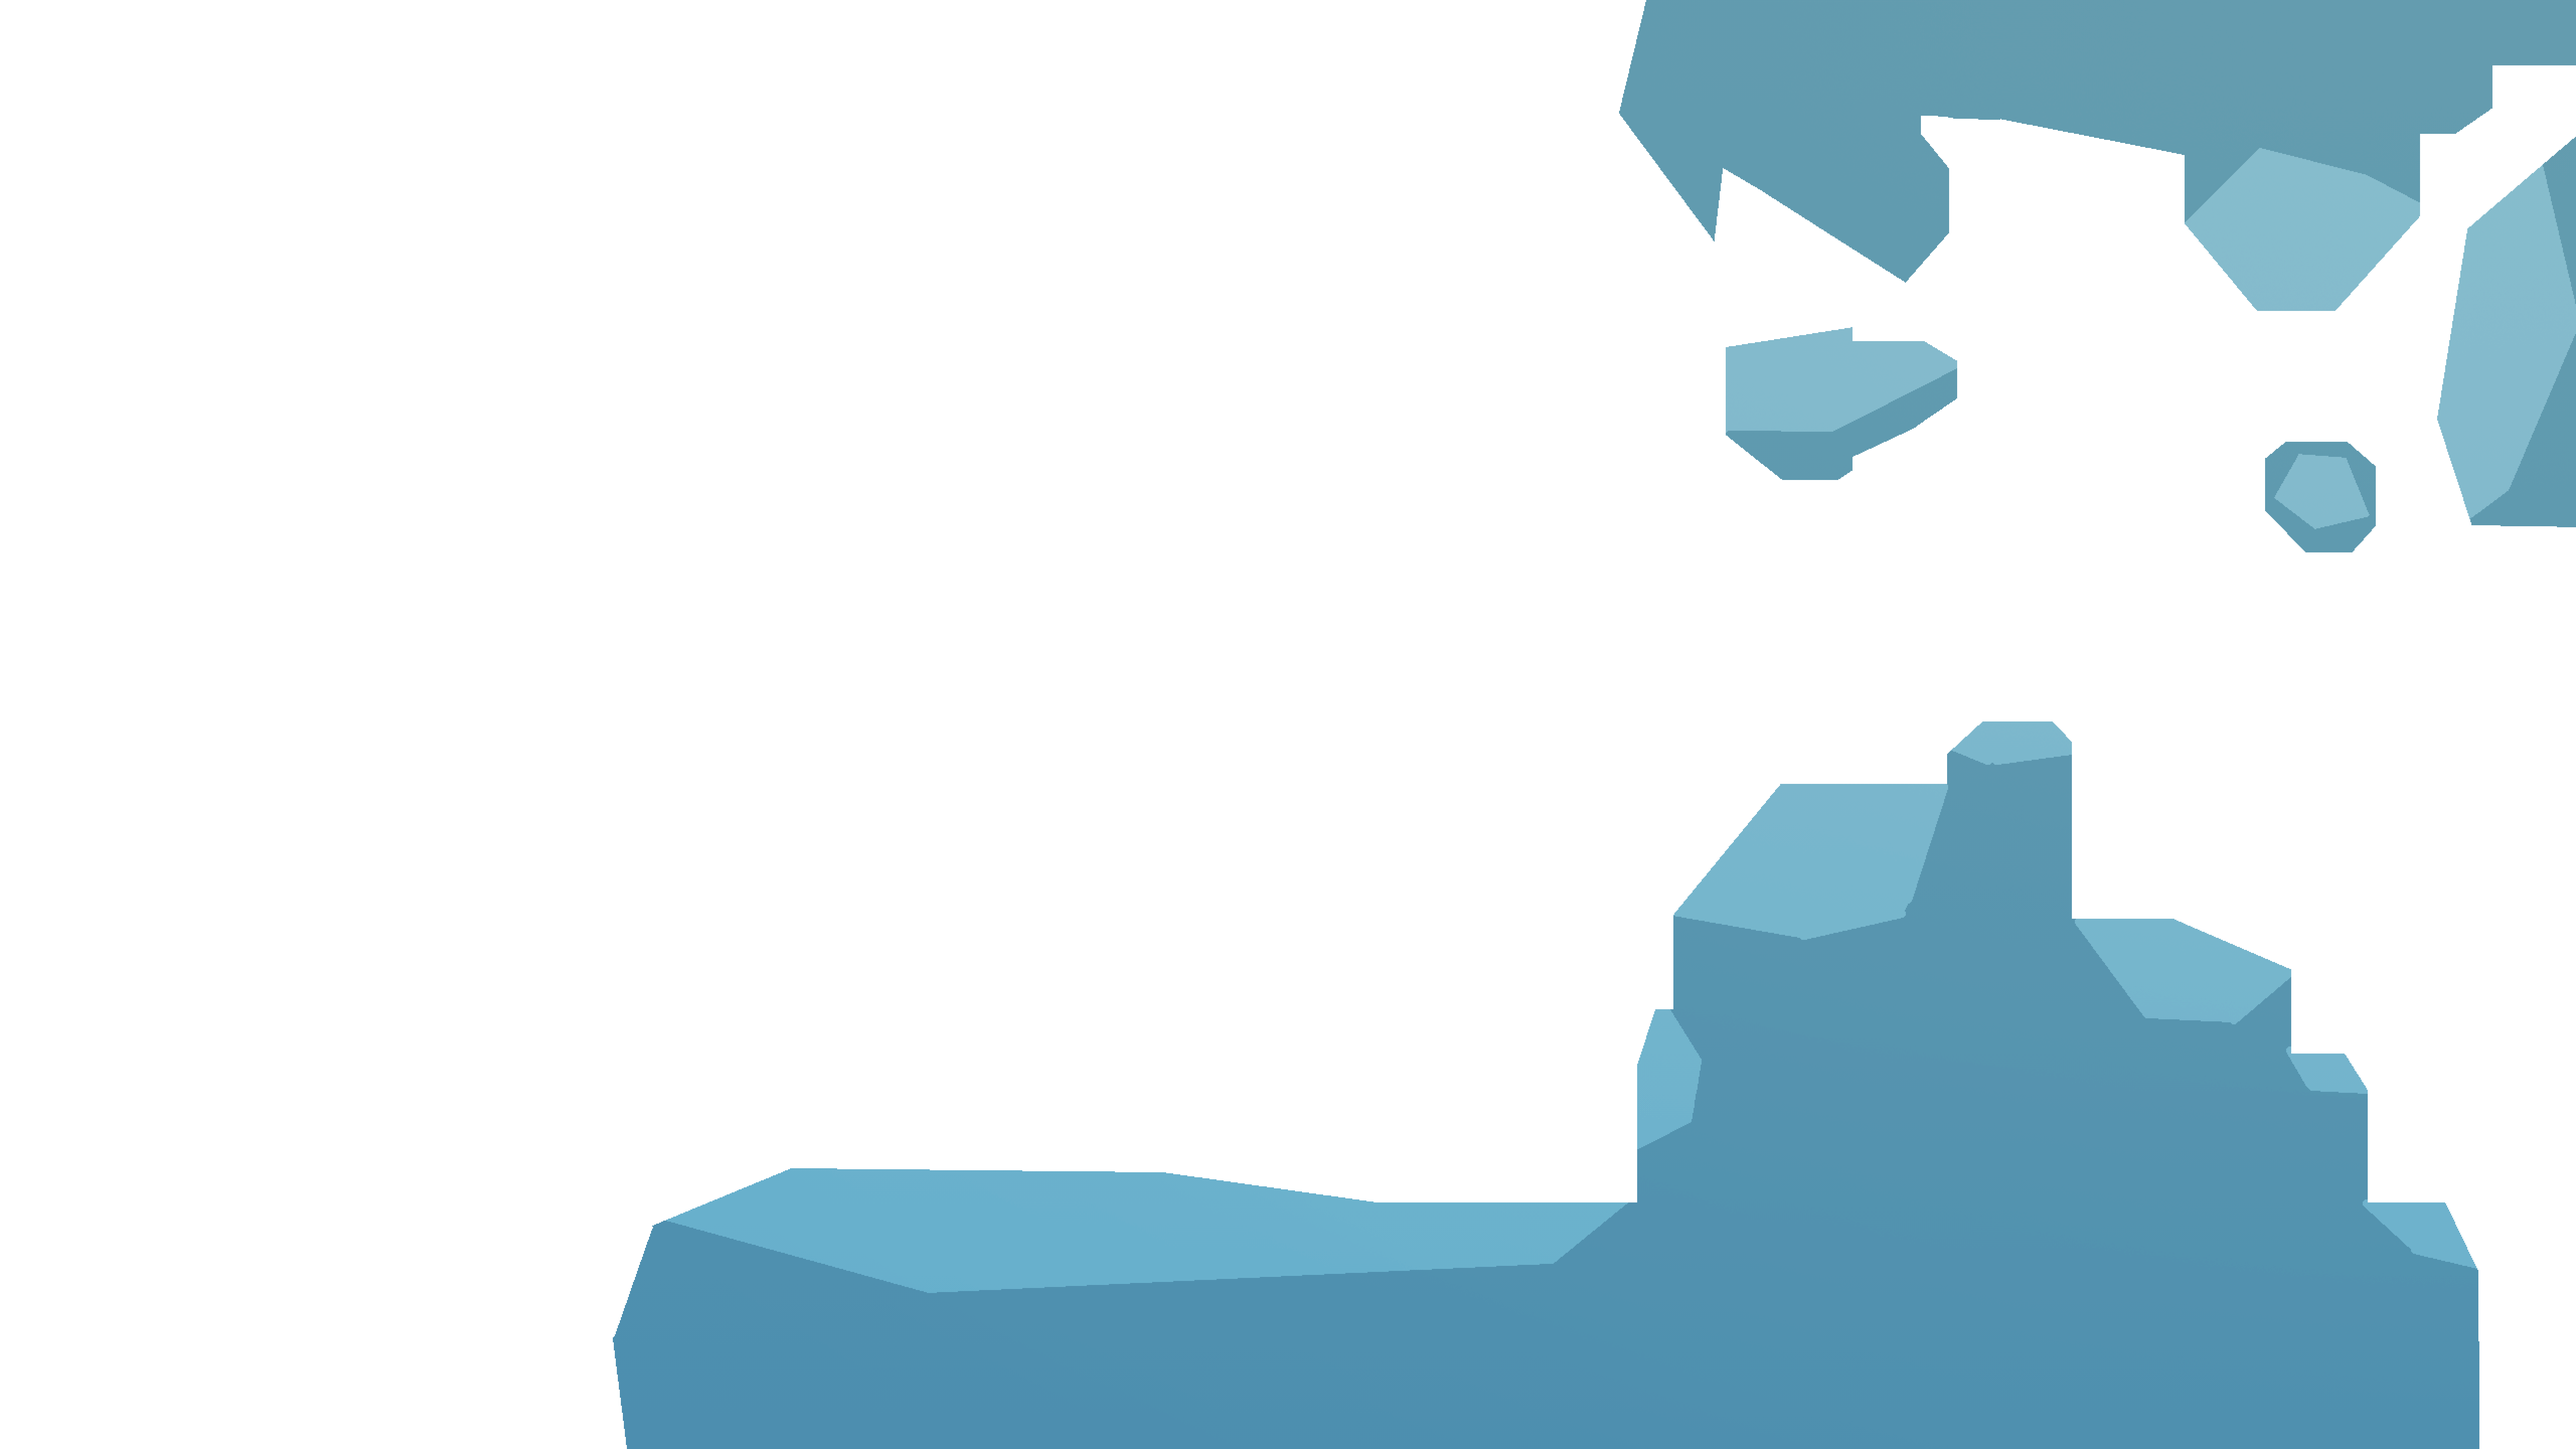
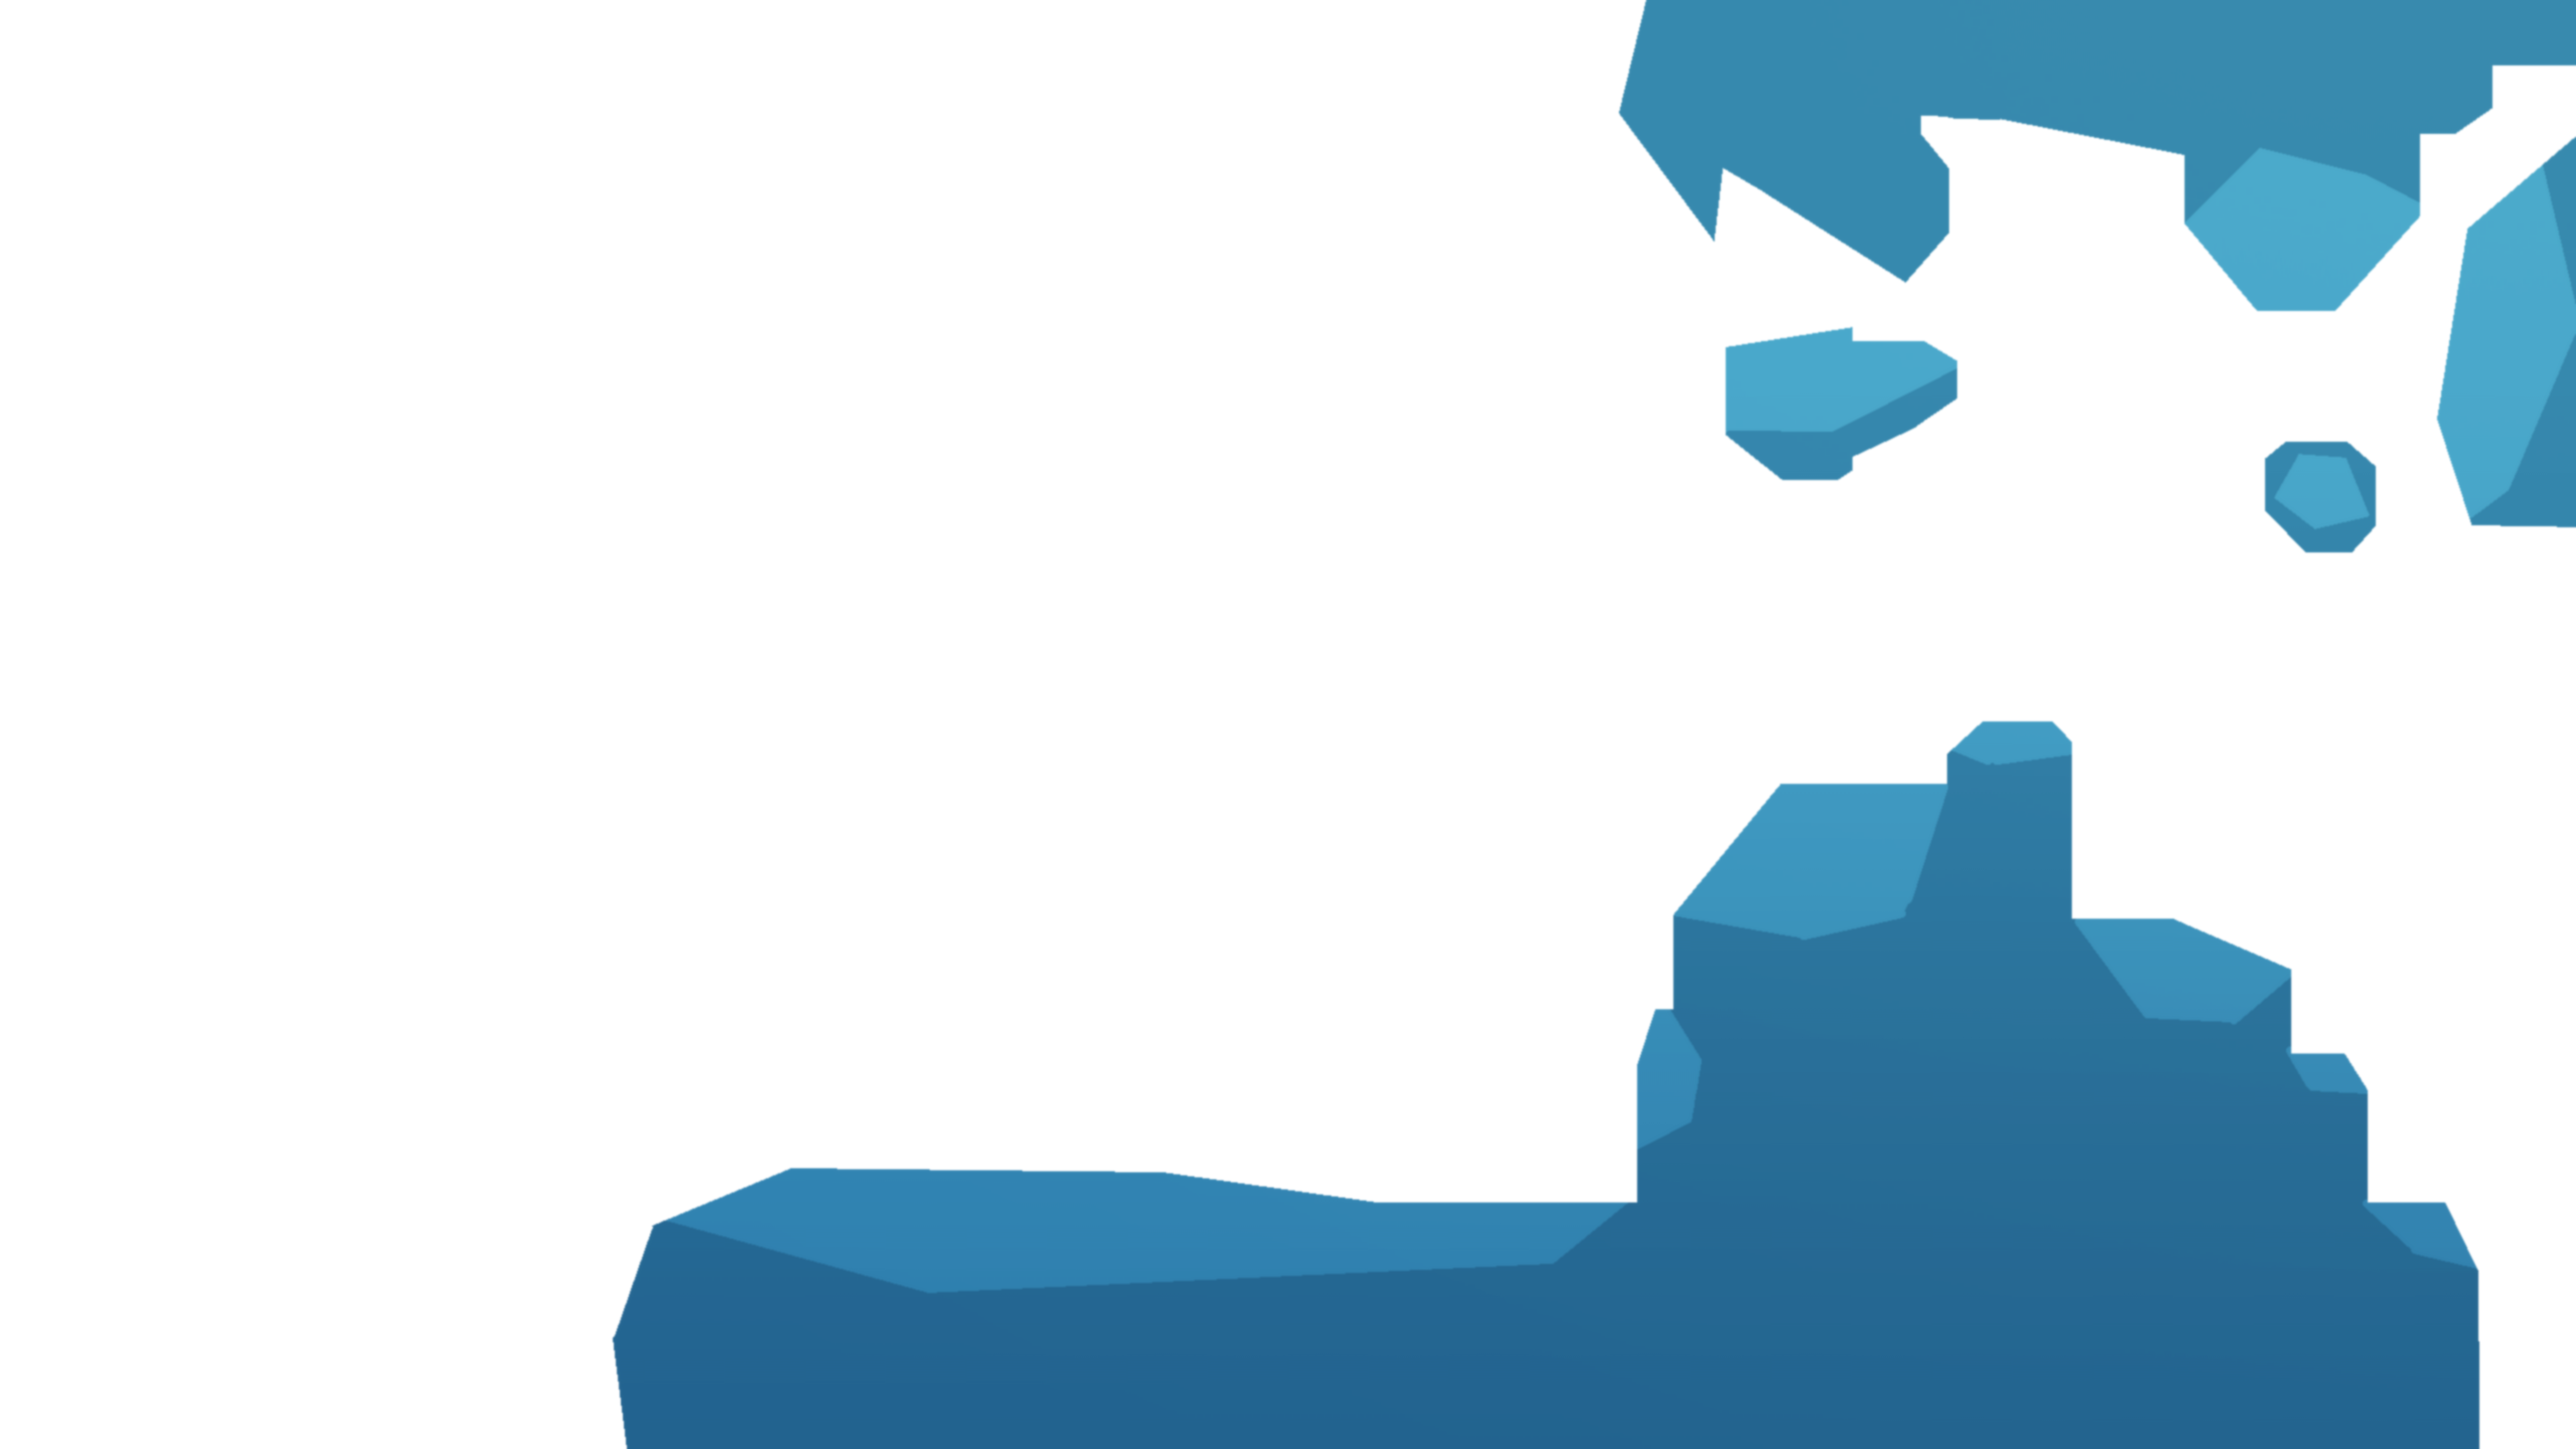
q

Changed region(s): [[0.2188, 0.5, 0.9688, 1.0], [0.625, 0.0, 1.0, 0.375], [0.6562, 0.2188, 0.7812, 0.3438]]

diff --git a/Manzo/Manzo/Game/Mode1.cpp b/Manzo/Manzo/Game/Mode1.cpp
@@ -95,7 +95,7 @@ void Mode1::Load() {
 	Engine::GetGameStateManager().GetGSComponent<Fish>()->ReadFishCSV("assets/scenes/Fish.csv");
 
 	//background
-	background->Add("assets/images/background/temp_background3.png", 0.0f);
+	background->Add("assets/images/background/temp_background4.png", 0.0f);
     background->Add("assets/images/background/bg1.png", 0.3f);
     background->Add("assets/images/background/bg2.png", 0.4f);
     background->Add("assets/images/background/bg3.png", 0.5f);

diff --git a/Manzo/Manzo/Game/FishEcosystem.cpp b/Manzo/Manzo/Game/FishEcosystem.cpp
@@ -18,7 +18,7 @@ FishGenerator::FishGenerator()
 	}
 
 	//non leader fish
-	for (int i = 0; i < 240; i++)
+	for (int i = 0; i < 60; i++)
 	{
 		BackgroundFish* bg_fish = new BackgroundFish();
 		Engine::GetGameStateManager().GetGSComponent<GameObjectManager>()->Add(bg_fish);
